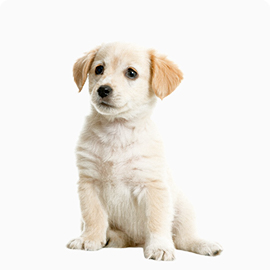
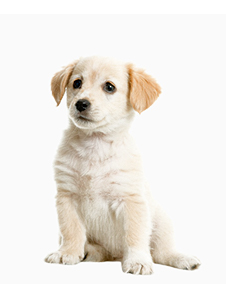
Добавила стрелки в каталог животных, заменила изображения, добавила отступы

Changed region(s): [[0.1858, 0.1481, 0.8982, 0.9778], [0.5265, 0.563, 0.5575, 0.5926]]

diff --git a/index.html b/index.html
@@ -58,6 +58,9 @@
                     are looking for a house</h3>
             </div>
             <div class="catalog-list">
+                <button class="items-button left"><svg version="1.1" xmlns="http://www.w3.org/2000/svg" xmlns:xlink="http://www.w3.org/1999/xlink" width="16" height="16" viewBox="0 0 16 16">
+                    <path fill="#444444" d="M15 7v2h-11v2l-3-3 3-3v2z"></path>
+                </svg></button>
                 <div class="catalog-item">
                     <img src="img/Katrine.jpg" width="270" height="270" alt="Katrine">
                     <div class="item-description">
@@ -79,6 +82,9 @@
                         <a class="catalog-button" href="#">Learn More</a>
                     </div>
                 </div>
+                <button class="items-button right"><svg version="1.1" xmlns="http://www.w3.org/2000/svg" xmlns:xlink="http://www.w3.org/1999/xlink" width="16" height="16" viewBox="0 0 16 16">
+                    <path fill="#444444" d="M15 7v2h-11v2l-3-3 3-3v2z"></path>
+                </svg></button>
             </div>
             <div class="catalog-more">
                 <a class="more" href="catalog.html">Get to know the rest</a>

diff --git a/style.css b/style.css
@@ -192,6 +192,7 @@ body {
 .catalog-list {
     display: flex;
     justify-content: space-between;
+    align-items: center;
 }
 
 .catalog-item {
@@ -200,6 +201,10 @@ body {
     height: 424px;
     background-color: #fafafa;
     border-radius: 5px;
+}
+
+.catalog-item img {
+    border-radius: 10px;
 }
 
 .item-description {
@@ -229,10 +234,43 @@ body {
     background-color: #ffffff;
     border: 2px solid #f2d3bc;
     border-radius: 30px;
-    margin: 24px 40px 34px 40px;
+    margin: 15px 40px 34px 40px;
 }
 
 .catalog-button:hover,
 .catalog-button:focus {
     background-color: #f1cdb3;
+    border: 2px solid #f1cdb3;
+}
+
+.items-button {
+    display: block;
+    width: 50px;
+    height: 50px;
+    border-radius: 50px;
+    border: 2px solid #f2d3bc;
+}
+
+.items-button:hover,
+.items-button:focus {
+    background-color: #f1cdb3;
+    border: 2px solid #f1cdb3
+}
+
+.items-button:first-child {
+    margin-right: 30px;
+}
+
+.items-button:last-child {
+    margin-left: 30px;
+}
+
+.items-button svg {
+    display: block;
+    margin: 8px;
+}
+
+
+.right svg {
+    transform: rotate(180deg)
 }
